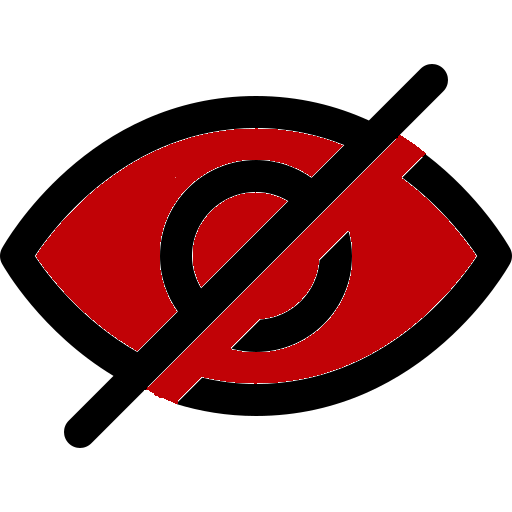
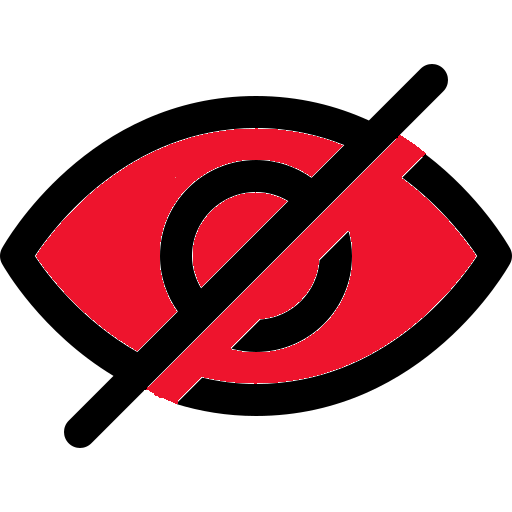
implemented light mode and dark mode toggle

Changed region(s): [[0.2812, 0.25, 0.9375, 0.7812], [0.0625, 0.25, 0.6875, 0.6875], [0.375, 0.375, 0.5625, 0.5625]]

diff --git a/Lite/style.css b/Lite/style.css
@@ -1,4 +1,5 @@
-:root{
+:root,
+  :root.dark{
   --black1:#000000;
   --black2:#0e0e0f;
   --black3:#0b0b0d;
@@ -9,7 +10,19 @@
   --white:#FFFBF2;
   --gray:#DFE2DB;
   --gray2:#333;
-}
+  }
+  :root.light{
+  --black1:#FFFFFF;
+  --black2:#babbbc;
+  --black3:#f4f4f4;
+  --dark:#FFFFFF;
+  --dark2:#F1F3F6;
+  --red2:#d7292c;
+  --red1:#ee142d;
+  --white:#3e3e3e;
+  --gray:#3A3F45;
+  --gray2:#C9CED6; 
+  }
 html{ 
   overflow-y: scroll; 
 }
@@ -30,7 +43,7 @@ nav{
   position: sticky;
   width: 100%;
   top:0;
-  z-index: 9999;
+  z-index: 9999; 
   display: flex;
   justify-content: space-between;
   align-items: center;
@@ -40,6 +53,10 @@ nav{
 nav h1{
   font-family: "Yuji Boku";
   color: var(--red1);
+}
+.modetoggle{
+  height: 25px;
+  cursor: pointer;
 }
 nav ul{
   display: flex;
@@ -169,7 +186,7 @@ button:hover {
   border-radius: 999px;
   background: var(--red2);
   border:none;
-  color:#fff;
+  color: var(--white);
   cursor:pointer;
 }
 .navsearch button:hover{
@@ -230,7 +247,7 @@ button:hover {
   border-color: rgba(225, 6, 0, 0.6);
   box-shadow: 0 0 25px rgba(225, 6, 0, 0.18);
   overflow: hidden;
-  background: #141417;
+  background: var(--dark2);
   transition: 0.3s;
 }
 .songcard.flipped .card-inner{

diff --git a/Lite/js/main.js b/Lite/js/main.js
@@ -1,5 +1,22 @@
+const mode = document.getElementById("modetoggle");
+const setTheme = (theme) => {
+  document.documentElement.classList.remove("dark", "light");
+  document.documentElement.classList.add(theme);
+  localStorage.setItem("theme", theme);
+  if (mode) {
+    mode.src = theme === "dark" ? "images/brightness.png" : "images/night.png";
+  }
+};
 document.addEventListener("DOMContentLoaded", () => {
   highlightActiveNav();
+  const savedTheme = localStorage.getItem("theme") || "dark";
+  setTheme(savedTheme);
+  if (mode) {
+    mode.addEventListener("click", () => {
+      const isDark = document.documentElement.classList.contains("dark");
+      setTheme(isDark ? "light" : "dark");
+    });
+  }
 });
 function highlightActiveNav() {
   const links = document.querySelectorAll("nav a");

diff --git a/Lite/trending.html b/Lite/trending.html
@@ -17,6 +17,7 @@
       <button id="navsearchbtn" type="button">Search</button>
     </div>
     <ul>
+      <li><img class="modetoggle" id="modetoggle" src="images/brightness.png"></li>
       <li><a href="home.html">Home</a></li>
       <li><a href="porter.html">Porter</a></li>
       <li><a href="trending.html">Trending</a></li>

diff --git a/Lite/porter.html b/Lite/porter.html
@@ -13,6 +13,7 @@
 <nav>
     <h1 id="brand">HumIT</h1>
     <ul>
+        <li><img class="modetoggle" id="modetoggle" src="images/brightness.png"></li>
         <li><a href="home.html">Home</a></li>
         <li><a href="porter.html">Porter</a></li>
         <li><a href="trending.html">Trending</a></li>

diff --git a/Lite/home.html b/Lite/home.html
@@ -13,6 +13,7 @@
   <nav>
     <h1 id="brand">HumIT</h1>
     <ul>
+      <li><img class="modetoggle" id="modetoggle" src="images/brightness.png"></li>
       <li><a href="home.html">Home</a></li>
       <li><a href="porter.html">Porter</a></li>
       <li><a href="trending.html">Trending</a></li>

diff --git a/Lite/login.html b/Lite/login.html
@@ -13,6 +13,7 @@
   <nav>
     <h1 id="brand">HumIT</h1>
     <ul>
+      <li><img class="modetoggle" id="modetoggle" src="images/brightness.png"></li>
       <li><a href="home.html">Home</a></li>
       <li><a href="porter.html">Porter</a></li>
       <li><a href="trending.html">Trending</a></li>
